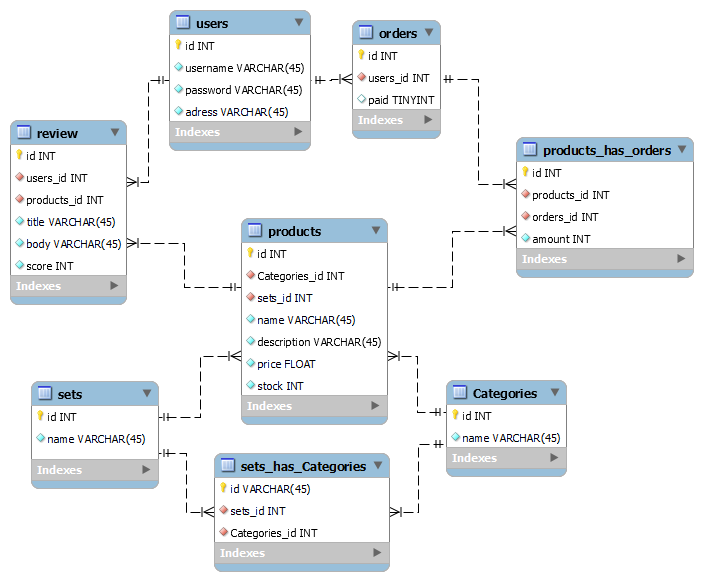
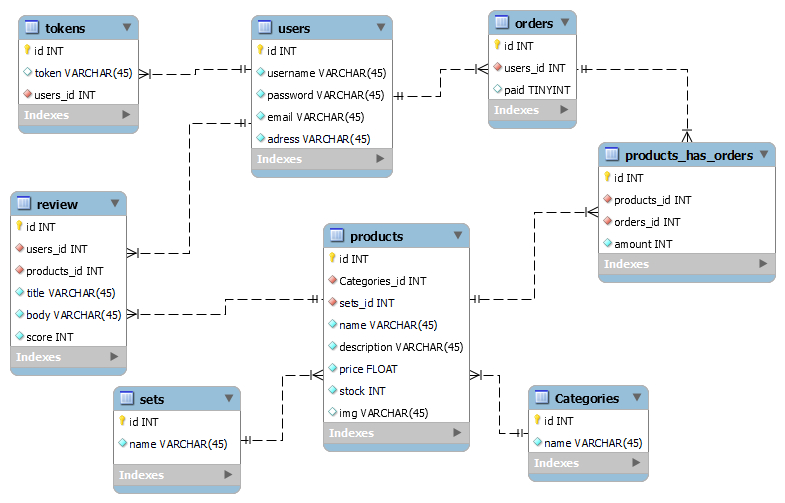
hecho parte de arriba, primeros puntos readme

diff --git a/README.md b/README.md
@@ -1,66 +1,4 @@
-<!-- # PROJECT_BACKEND
 
-- [X] Registro de usuarios usando Bcrypt.
-- [X] Login de usuarios + token + middleware.
-- [X] Que sea capaz de crear un CRUD.
-- [X] Al menos una relación Many to Many y otra One to Many.
-- [X] Utilización de seeders
-
-Requisitos imprescindibles del proyecto:
-- [X] Uso de ramas con git, cuando se termine el proyecto deberán quedar dos ramas la master o main y la develop.
-- [X] Presentación de README excelente.
-
-## 1.1.Endpoints
-  - _Productos_
-- [X] *CRUD productos*
-- [X] El endpoint de traer productos debe mostrarse junto a la categoría o categorías que pertenece
-- [X] Endpoint que traiga un producto por su id
-- [X] Filtro para buscar producto por nombre
-- [/] Filtro para buscar producto por precio
-- [X] Filtro que ordene los productos de mayor a menor precio
-- [X] Implementa validación a la hora de crear un producto para que se rellene todos los campos y si no se hace que devuelva un mensaje
-- [X] Solo podrás crear, actualizar y eliminar productos si estás autenticado.
-
-
-
-  - _Categorías_
-- [X] *CRUD Categorías*
-- [X] El endpoint para ver todas las categorías junto a los productos que tienen
-- [X] Crea un endpoint que devuelva una categoría por id
-- [X] Filtro para buscar categoría por nombre
-
-
-
-  - _Pedidos_
-- [X] Crea un endpoint para ver los pedidos junto a los productos que tienen 
-- [X] Crea un endpoint para crear pedidos
-
-
-
-
- - _Usuarios_
-- [X] Endpoint para registrar un usuario utilizando bcrypt
-- [X] Endpoint para login(utilizando bcrypt +JWT)
-- [X] Endpoint que nos traiga la información del usuario conectado junto a los pedidos que tiene y los productos que contiene cada pedido
-- [X] Endpoint para el logout
-- [/] Implementa validación a la hora de crear un usuario para que se rellene todos los campos y si no se hace que devuelva un mensaje
-
-
-
- - _Seeders_
-- [X] Crea 5 productos con un seeder
-
-## 1.2. Extra		
-- [X] Implementación de roles:
-    - Crear un rol Admin y que solo los usuarios con ese rol puedan crear, actualizar y eliminar productos.
-- [X] Investiga que es el middleware multer e implementalo para poder adjuntar imágenes al crear o actualizar productos.
-- [X] Reviews
-    - CRUD reviews
-    - El endpoint de traer reviews debe mostrarlas junto al usuario que hizo esa review
-    - Actualizar el endpoint de traer todos productos y que ahora muestre los productos junto a sus categorías y sus reviews
-    - Actualizar el endpoint de traer producto por id y que ahora muestre los productos junto a sus categorías y sus reviews
-
- -->
 
  # <center>Frikishop</center>
 
@@ -106,15 +44,131 @@ Requisitos imprescindibles del proyecto:
 
 # Sobre el proyecto
 
-## Instalacion y despliegue
 
-## Tecnologias utilizadas
+
+## Instalacion y despliegue
+Para el desarrollo de esta API utilizaremos mysql con Sequelize y express mediante Node.
+El proyecto se subirá a un repositorio público de GitHub.
+Para instalar este proyecto debes hacer lo siguiente: primero acceder desde github al repositorio y proceder a clonártelo con el siguiente comando:
+
+git clone https://github.com/vaneebg/PROJECT_BACKEND
+
+Una vez clonado el respositorio es muy importante que en tu consola instales todos los npm que necesita el proyecto con el siguiente comando: 
+````
+npm i
+````
+Además, si no tienes instalado Sequelize de forma global, deberás hacerlo con el siguiente comando:
+````
+npm install sequelize-cli -g
+````
+
+Seguidamente, dentro de la carpeta config, debes crearte un archivo llamado "config.json" con la siguiente información:
+`````
+{
+    "development": {
+        "username": "Your user", // Aquí introducir tu usuario de mysql 
+        "password": "Your pass", //Introducir tu contraseña de mysql
+        "database": "Your db", // Nombre de tu base de datos
+        "host": "Your host", //Tu host
+        "dialect": "mysql",
+        "jwt_secret": "YourJWTPass", //La firma para verificar que el remitente del JWT es quien dice ser
+        "auth": {
+            "user": "yourMail@gmail.com", //Nombre de la dirección de email con la que quieras enviar el correo de confirmación para registrarte
+            "pass": "YourPass" //Contraseña de esa cuenta de email
+        }
+    },
+    ...
+}
+``````
+
+## Tecnologias/packages utilizados
+- Javascript
+- Mysql
+- Node
+- Express
+- Sequelize
+- Nodemailer
+- Bcrypt
+- Jsonwebtoken
+- Multer
 
 ## Origen
+Es un proyecto de backend de la academia The Brigde para asentar conocimientos en todo el terreno de base de datos mysql conjuntamente con Node+Express y Sequelize. Ha consistido en desarrollar una tienda que, en nuestro caso, posee una temática friki, de forma que tenemos tanto Categorías fisicas por un lado, como Sets dentro de esas categorías pertenecientes a diversos videojuegos, animes, etc.
 
+
+Además de la utilización de estas tecnologías, hemos trabajo en equipo mediante la utilización de diversas ramas de Git. Primeramente se ha creado la rama develop y desde ahí hemos ido diversificando en varias subramas según qué finalidad tuviese cada nueva aportación. El objetivo final es trabajar conjuntamente desde develop, mergeando ramas según se avance y teniendo en cuenta el trabajo del compañero. Finalmente, cuando se prueba el proyecto entero desde develop y se comprueba que todo funciona y está correcto, se acaba añadiendo a la rama main.
+
+
+Este es el diagrama que hemos confeccionado para realizar nuestra base de datos de la tienda:
+![foto](/toReadme/schema_png.png)
 ## Objetivos
 
+
+- [X] Registro de usuarios usando Bcrypt.
+- [X] Login de usuarios + token + middleware.
+- [X] Que sea capaz de crear un CRUD.
+- [X] Al menos una relación Many to Many y otra One to Many.
+- [X] Utilización de seeders
+
+Requisitos imprescindibles del proyecto:
+- [X] Uso de ramas con git, cuando se termine el proyecto deberán quedar dos ramas la master o main y la develop.
+- [X] Presentación de README excelente.
+
+## 1.1. Endpoints
+
+  - _**Productos**_
+    
+- [X] CRUD productos
+- [X] El endpoint de traer productos debe mostrarse junto a la categoría o categorías que pertenece
+- [X] Endpoint que traiga un producto por su id
+- [X] Filtro para buscar producto por nombre
+- [/] Filtro para buscar producto por precio
+- [X] Filtro que ordene los productos de mayor a menor precio
+- [X] Implementa validación a la hora de crear un producto para que se rellene todos los campos y si no se hace que devuelva un mensaje
+- [X] Solo podrás crear, actualizar y eliminar productos si estás autenticado.
+
+
+
+  - _**Categorías**_
+- [X] CRUD Categorías
+- [X] El endpoint para ver todas las categorías junto a los productos que tienen
+- [X] Crea un endpoint que devuelva una categoría por id
+- [X] Filtro para buscar categoría por nombre
+
+
+
+  - _**Pedidos**_
+- [X] Crea un endpoint para ver los pedidos junto a los productos que tienen 
+- [X] Crea un endpoint para crear pedidos
+
+
+
+
+    - _**Usuarios**_
+- [X] Endpoint para registrar un usuario utilizando bcrypt
+- [X] Endpoint para login(utilizando bcrypt +JWT)
+- [X] Endpoint que nos traiga la información del usuario conectado junto a los pedidos que tiene y los productos que contiene cada pedido
+- [X] Endpoint para el logout
+- [/] Implementa validación a la hora de crear un usuario para que se rellene todos los campos y si no se hace que devuelva un mensaje
+
+
+
+    - _**Seeders**_
+- [X] Crea 5 productos con un seeder
+
+## 1.2. Extra		
+- [X] **Implementación de roles:**
+    - Crear un rol Admin y que solo los usuarios con ese rol puedan crear, actualizar y eliminar productos.
+- [X] **Investiga que es el middleware multer** e implementalo para poder adjuntar imágenes al crear o actualizar productos.
+- [X] **Reviews**
+    - CRUD reviews
+    - El endpoint de traer reviews debe mostrarlas junto al usuario que hizo esa review
+    - Actualizar el endpoint de traer todos productos y que ahora muestre los productos junto a sus categorías y sus reviews
+    - Actualizar el endpoint de traer producto por id y que ahora muestre los productos junto a sus categorías y sus reviews
+
+
 ## Concepto e inspiración
+La idea inicial de este proyecto surge cuando dos par de frikis se juntan para realizar un backend. Cada uno de nosotros, uno enamorado de Valorant y otro amante de los animes, vimos claro que nuestro proyecto de backend debía pertenecer a nuestro campo. De ahí surgió la estructura inicial de nuestra tienda friki, en la que podremos encontrar cosas que nos apasionan a ambos.
 
 # Documentacion de API
 
